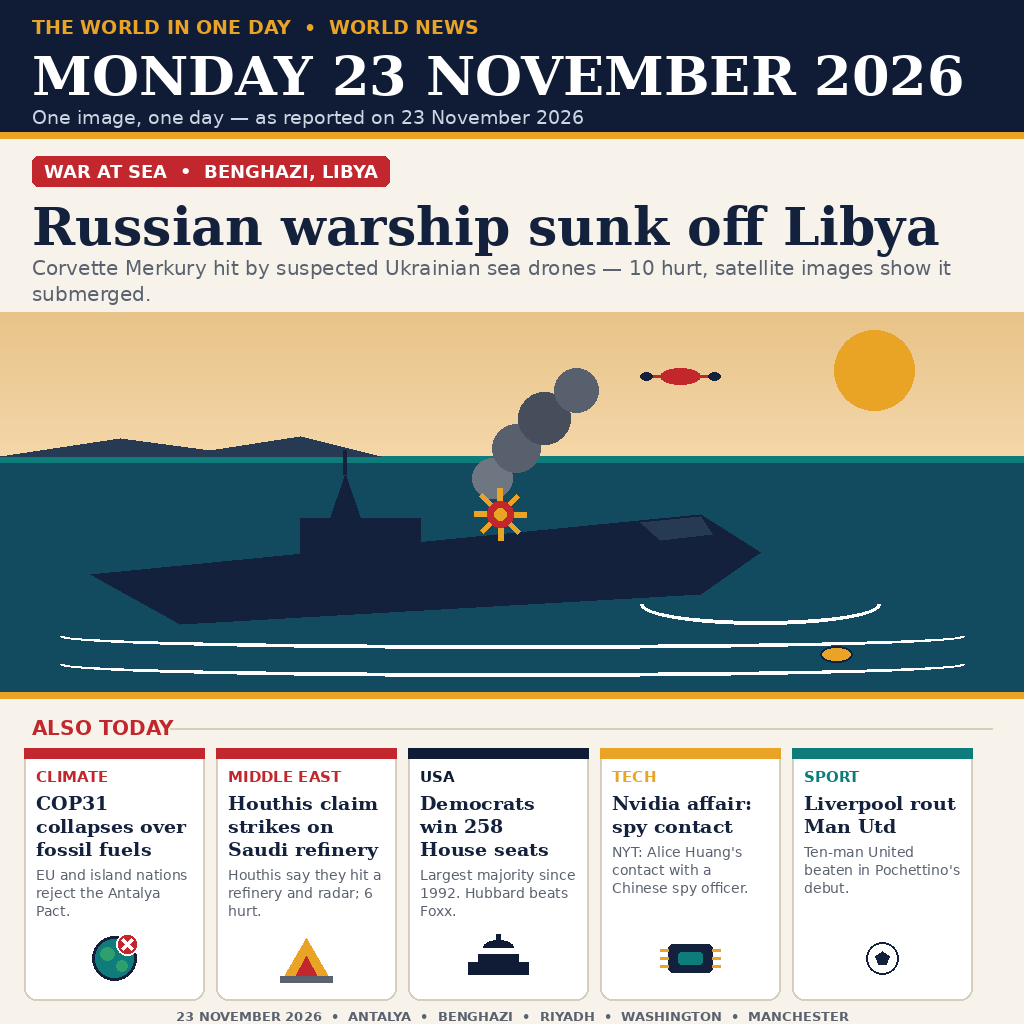
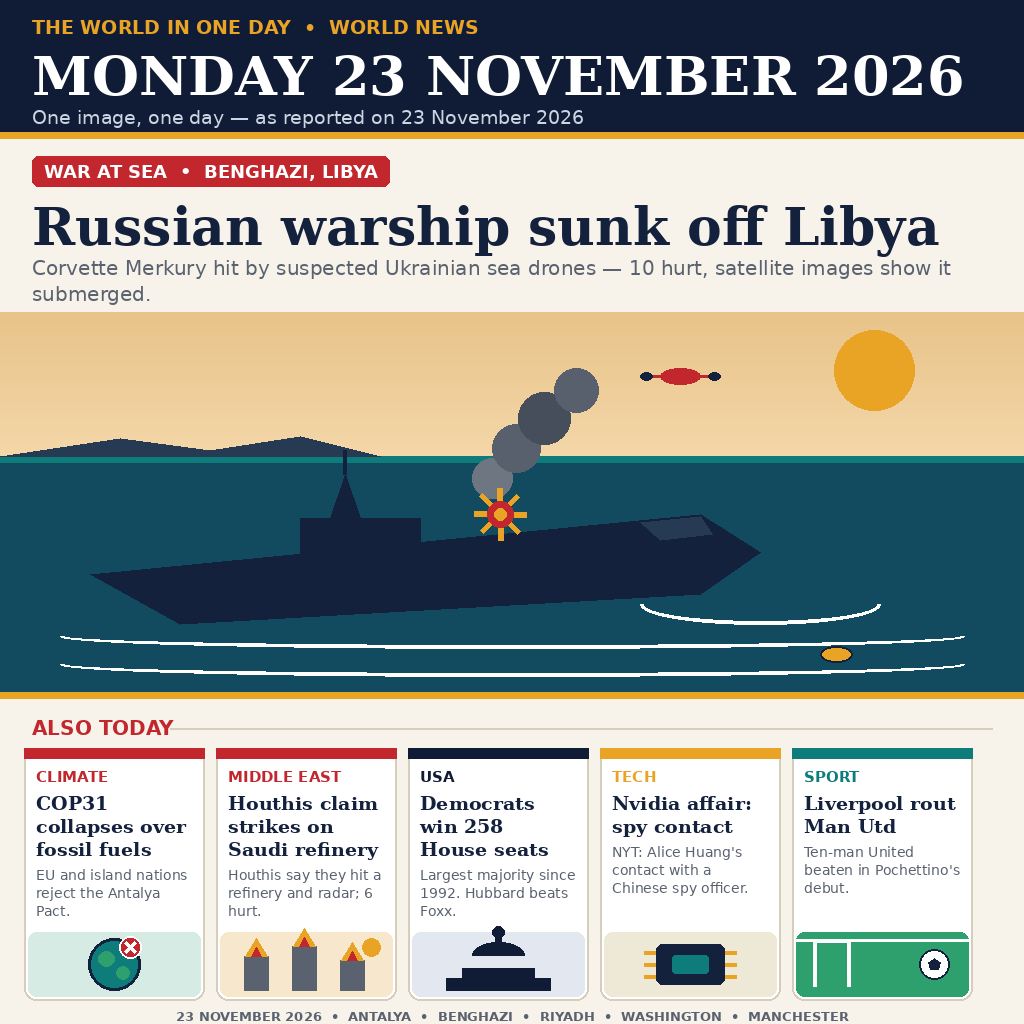
news-image v4: mini scenes for every ALSO TODAY story

Changed region(s): [[0.0, 0.9062, 0.9688, 1.0]]

diff --git a/draw.py b/draw.py
@@ -1,4 +1,4 @@
-"""Draw the 23 November 2026 world-news poster, v3 (1024x1024 PNG).
+"""Draw the 23 November 2026 world-news poster, v4 (1024x1024 PNG).
 
 Run:  python3 draw.py            -> writes entry.png next to this file.
 The entry program (main.ts, Node stdlib only) copies entry.png to
@@ -6,11 +6,13 @@ The entry program (main.ts, Node stdlib only) copies entry.png to
 fixed fonts, fixed layout, no network, no timestamps, no randomness.
 
 v3 is scene-led, not grid-led (v2 ranked 4916/7226 in round 1, so the
-newspaper grid was judged ordinary). One big hero scene — the corvette
-Merkury sinking off Benghazi at dusk — fills ~45% of the frame; the
-other five stories become a compact "ALSO TODAY" strip underneath.
-The date stays the biggest text on the page, because the judge is
-not told which day the contest is about.
+newspaper grid was judged ordinary). v3 climbed to 4239/9643 in
+round 2 — above the median, but far from the paid top 50. v4 keeps
+the v3 hero scene and every verified word, and gives each of the
+five strip stories a small flat scene of its own (globe, refinery,
+Capitol, chip, pitch) so every story is clear from its picture,
+not just from its headline. The date stays the biggest text on the
+page, because the judge is not told which day the contest is about.
 
 Editorial choices, all verified against reporting on 23 Nov 2026:
  1. Russian corvette Merkury sinks at Benghazi after a suspected
@@ -99,7 +101,9 @@ def burst(draw, cx, cy, reach, color, width):
                   fill=color, width=width)
 
 
-# ---- small icons for the ALSO TODAY strip ----------------------------
+# ---- mini scenes for the ALSO TODAY strip ---------------------------
+# Each scene fills a small tinted band at the bottom of its card, so
+# the story reads from its picture as well as its headline.
 def mini_globe(draw, cx, cy, r=22):
     draw.ellipse([cx - r, cy - r, cx + r, cy + r], fill=TEAL)
     draw.ellipse([cx - r, cy - r, cx + r, cy + r], outline=INK, width=3)
@@ -113,36 +117,63 @@ def mini_globe(draw, cx, cy, r=22):
     draw.line([bx - 5, by + 5, bx + 5, by - 5], fill=WHITE, width=3)
 
 
-def mini_flame(draw, cx, cy):
-    draw.polygon([(cx - 22, cy + 18), (cx, cy - 20), (cx + 22, cy + 18)],
-                 fill=GOLD)
-    draw.polygon([(cx - 11, cy + 18), (cx, cy - 2), (cx + 11, cy + 18)],
-                 fill=RED)
-    draw.rectangle([cx - 26, cy + 18, cx + 26, cy + 24], fill=GREY)
+def globe_scene(draw, x0, y0, x1, y1):
+    draw.rounded_rectangle([x0, y0, x1, y1], radius=8, fill=(214, 235, 228))
+    mini_globe(draw, (x0 + x1) // 2, (y0 + y1) // 2, r=26)
 
 
-def mini_capitol(draw, cx, cy):
-    draw.rectangle([cx - 30, cy + 4, cx + 30, cy + 16], fill=NAVY)
-    draw.rectangle([cx - 20, cy - 4, cx + 20, cy + 4], fill=NAVY)
-    draw.pieslice([cx - 15, cy - 18, cx + 15, cy - 4], 180, 360, fill=NAVY)
-    draw.rectangle([cx - 2, cy - 24, cx + 2, cy - 18], fill=NAVY)
+def refinery_scene(draw, x0, y0, x1, y1):
+    """Oil refinery towers with flames under a small sun."""
+    draw.rounded_rectangle([x0, y0, x1, y1], radius=8, fill=(247, 232, 205))
+    draw.ellipse([x1 - 30, y0 + 6, x1 - 12, y0 + 24], fill=GOLD)
+    base = y1 - 6
+    cx = (x0 + x1) // 2
+    for tx, th in ((cx - 62, 34), (cx - 14, 44), (cx + 34, 30)):
+        draw.rectangle([tx, base - th, tx + 24, base], fill=GREY)
+        draw.polygon([(tx + 1, base - th), (tx + 12, base - th - 18),
+                      (tx + 23, base - th)], fill=GOLD)
+        draw.polygon([(tx + 7, base - th), (tx + 12, base - th - 9),
+                      (tx + 17, base - th)], fill=RED)
 
 
-def mini_chip(draw, cx, cy):
-    draw.rounded_rectangle([cx - 22, cy - 14, cx + 22, cy + 14], radius=5,
+def capitol_scene(draw, x0, y0, x1, y1):
+    """US Capitol dome, larger than the v3 icon."""
+    draw.rounded_rectangle([x0, y0, x1, y1], radius=8, fill=(226, 231, 240))
+    cx, base = (x0 + x1) // 2, y1 - 6
+    draw.rectangle([cx - 52, base - 12, cx + 52, base], fill=NAVY)
+    draw.rectangle([cx - 36, base - 22, cx + 36, base - 12], fill=NAVY)
+    draw.pieslice([cx - 26, base - 48, cx + 26, base - 22], 180, 360,
+                  fill=NAVY)
+    draw.rectangle([cx - 3, base - 58, cx + 3, base - 48], fill=NAVY)
+    draw.ellipse([cx - 6, base - 64, cx + 6, base - 52], fill=NAVY)
+
+
+def chip_scene(draw, x0, y0, x1, y1):
+    """A computer chip with pins, larger than the v3 icon."""
+    draw.rounded_rectangle([x0, y0, x1, y1], radius=8, fill=(238, 232, 214))
+    cx, cy = (x0 + x1) // 2, (y0 + y1) // 2
+    for dy in (-12, 0, 12):
+        draw.line([cx - 46, cy + dy, cx - 34, cy + dy], fill=GOLD, width=4)
+        draw.line([cx + 34, cy + dy, cx + 46, cy + dy], fill=GOLD, width=4)
+    draw.rounded_rectangle([cx - 34, cy - 20, cx + 34, cy + 20], radius=6,
                            fill=INK)
-    draw.rounded_rectangle([cx - 12, cy - 6, cx + 12, cy + 6], radius=3,
+    draw.rounded_rectangle([cx - 18, cy - 9, cx + 18, cy + 9], radius=3,
                            fill=TEAL)
-    for dy in (-8, 0, 8):
-        draw.line([cx - 30, cy + dy, cx - 22, cy + dy], fill=GOLD, width=3)
-        draw.line([cx + 22, cy + dy, cx + 30, cy + dy], fill=GOLD, width=3)
 
 
-def mini_ball(draw, cx, cy):
-    draw.ellipse([cx - 16, cy - 16, cx + 16, cy + 16], fill=WHITE,
+def pitch_scene(draw, x0, y0, x1, y1):
+    """A football pitch strip, goal and ball."""
+    draw.rounded_rectangle([x0, y0, x1, y1], radius=8, fill=GREEN)
+    draw.line([x0, y0 + 8, x1, y0 + 8], fill=WHITE, width=3)
+    gx = x0 + 18
+    draw.line([gx, y0 + 8, gx, y1 - 10], fill=WHITE, width=4)
+    draw.line([gx + 34, y0 + 8, gx + 34, y1 - 10], fill=WHITE, width=4)
+    draw.line([gx, y0 + 8, gx + 34, y0 + 8], fill=WHITE, width=4)
+    bx, by, br = x1 - 34, (y0 + y1) // 2, 15
+    draw.ellipse([bx - br, by - br, bx + br, by + br], fill=WHITE,
                  outline=INK, width=2)
-    draw.polygon([(cx, cy - 7), (cx + 7, cy - 2), (cx + 4, cy + 6),
-                  (cx - 4, cy + 6), (cx - 7, cy - 2)], fill=INK)
+    draw.polygon([(bx, by - 6), (bx + 6, by - 2), (bx + 4, by + 5),
+                  (bx - 4, by + 5), (bx - 6, by - 2)], fill=INK)
 
 
 # ---- hero scene: the sinking corvette at dusk ------------------------
@@ -242,18 +273,18 @@ def main():
 
     items = [
         ("CLIMATE", RED, "COP31 collapses over fossil fuels",
-         "EU and island nations reject the Antalya Pact.", mini_globe),
+         "EU and island nations reject the Antalya Pact.", globe_scene),
         ("MIDDLE EAST", RED, "Houthis claim strikes on Saudi refinery",
-         "Houthis say they hit a refinery and radar; 6 hurt.", mini_flame),
+         "Houthis say they hit a refinery and radar; 6 hurt.", refinery_scene),
         ("USA", NAVY, "Democrats win 258 House seats",
-         "Largest majority since 1992. Hubbard beats Foxx.", mini_capitol),
+         "Largest majority since 1992. Hubbard beats Foxx.", capitol_scene),
         ("TECH", GOLD, "Nvidia affair: spy contact",
-         "NYT: Alice Huang's contact with a Chinese spy officer.", mini_chip),
+         "NYT: Alice Huang's contact with a Chinese spy officer.", chip_scene),
         ("SPORT", TEAL, "Liverpool rout Man Utd",
-         "Ten-man United beaten in Pochettino's debut.", mini_ball),
+         "Ten-man United beaten in Pochettino's debut.", pitch_scene),
     ]
     col_w = 192
-    for i, (tag_text, accent, head, sub, icon) in enumerate(items):
+    for i, (tag_text, accent, head, sub, scene) in enumerate(items):
         x0 = 24 + i * col_w
         x1 = x0 + col_w - 12
         d.rounded_rectangle([x0, 748, x1, 1000], radius=12, fill=CARD,
@@ -266,7 +297,7 @@ def main():
         sf = font(SANS, 14)
         sl = wrap(d, sub, sf, x1 - x0 - 24)
         draw_lines(d, x0 + 12, y + 6, sl, sf, GREY, 18)
-        icon(d, (x0 + x1) // 2, 958)
+        scene(d, x0 + 4, 932, x1 - 4, 996)
 
     d.text((512, 1008), "23 NOVEMBER 2026  •  ANTALYA  •  BENGHAZI  •  "
            "RIYADH  •  WASHINGTON  •  MANCHESTER",

diff --git a/README.md b/README.md
@@ -4,7 +4,7 @@
 [![rank](https://make.fun/badge/news-image-20261123/DropsterMind/news-image-20261123/rank.svg)](https://make.fun/bounty/news-image-20261123/leaderboard?utm_source=github&utm_medium=readme&utm_campaign=news-image-20261123)
 [![reward](https://make.fun/badge/news-image-20261123/DropsterMind/news-image-20261123/reward.svg)](https://make.fun/bounty/news-image-20261123?utm_source=github&utm_medium=readme&utm_campaign=news-image-20261123)
 
-One image summing up the world's news of **Monday 23 November 2026**. The lead scene is the Russian corvette Merkury sinking off Benghazi at dusk after a suspected sea-drone strike; below it, an "ALSO TODAY" strip covers COP31 collapsing in Antalya over fossil fuels, Houthis claiming strikes on a Saudi oil refinery, Democrats winning 258 US House seats (largest since 1992), the Nvidia spy-contact report, and Liverpool's rout of Manchester United in Pochettino's debut. The date is the biggest text on the page, each story carries a short, faithful headline, and the whole poster is drawn flat so it stays legible at 300 pixels across.
+One image summing up the world's news of **Monday 23 November 2026**. The lead scene is the Russian corvette Merkury sinking off Benghazi at dusk after a suspected sea-drone strike; below it, an "ALSO TODAY" strip covers COP31 collapsing in Antalya over fossil fuels, Houthis claiming strikes on a Saudi oil refinery, Democrats winning 258 US House seats (largest since 1992), the Nvidia spy-contact report, and Liverpool's rout of Manchester United in Pochettino's debut — each with its own small flat scene (globe, refinery, Capitol, chip, football pitch) so every story reads from its picture as well as its headline. The date is the biggest text on the page, and the whole poster is drawn flat so it stays legible at 300 pixels across.
 
 ## Run it
 
@@ -12,7 +12,7 @@ One image summing up the world's news of **Monday 23 November 2026**. The lead s
 mkdir -p out && MAKEFUN_OUTPUT_DIR=out node main.ts
 ```
 
-`main.ts` (Node 22, standard library only) copies `entry.png` (1024x1024 PNG, about 89 KB) to `/output/entry.png`, after checking it is a whole PNG within the 1024x1024 and 1 MiB limits. It writes the same bytes on every run, with no network. `draw.py` is the script that drew `entry.png` (Python + Pillow, run locally before committing); re-run it with `python3 draw.py` to regenerate the image deterministically.
+`main.ts` (Node 22, standard library only) copies `entry.png` (1024x1024 PNG, about 90 KB) to `/output/entry.png`, after checking it is a whole PNG within the 1024x1024 and 1 MiB limits. It writes the same bytes on every run, with no network. `draw.py` is the script that drew `entry.png` (Python + Pillow, run locally before committing); re-run it with `python3 draw.py` to regenerate the image deterministically.
 
 ---
 
